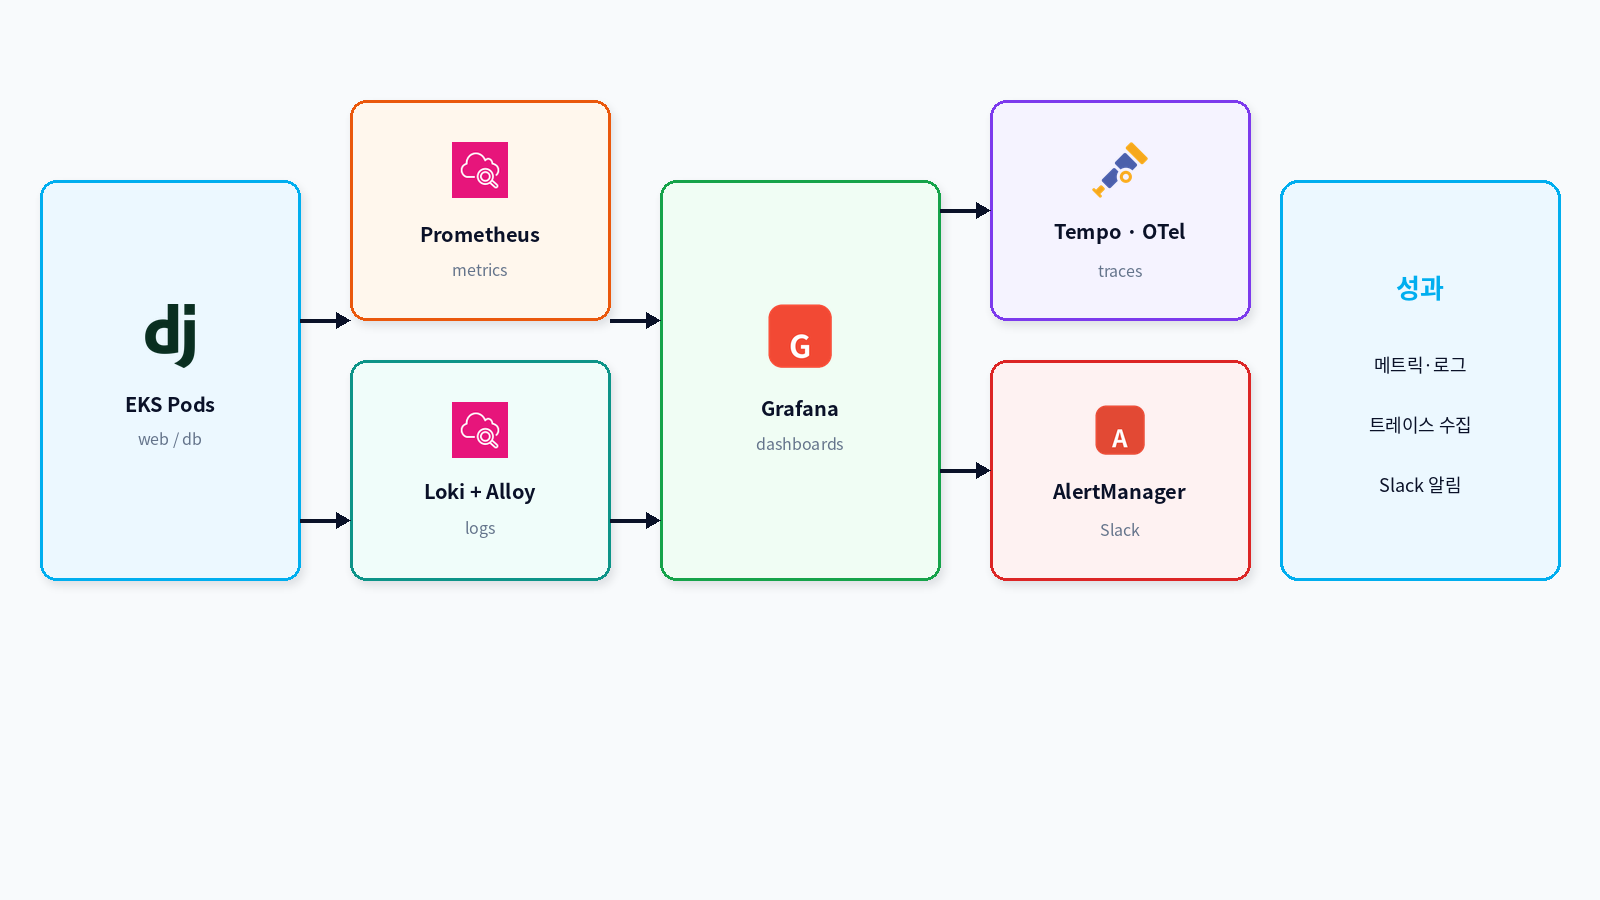
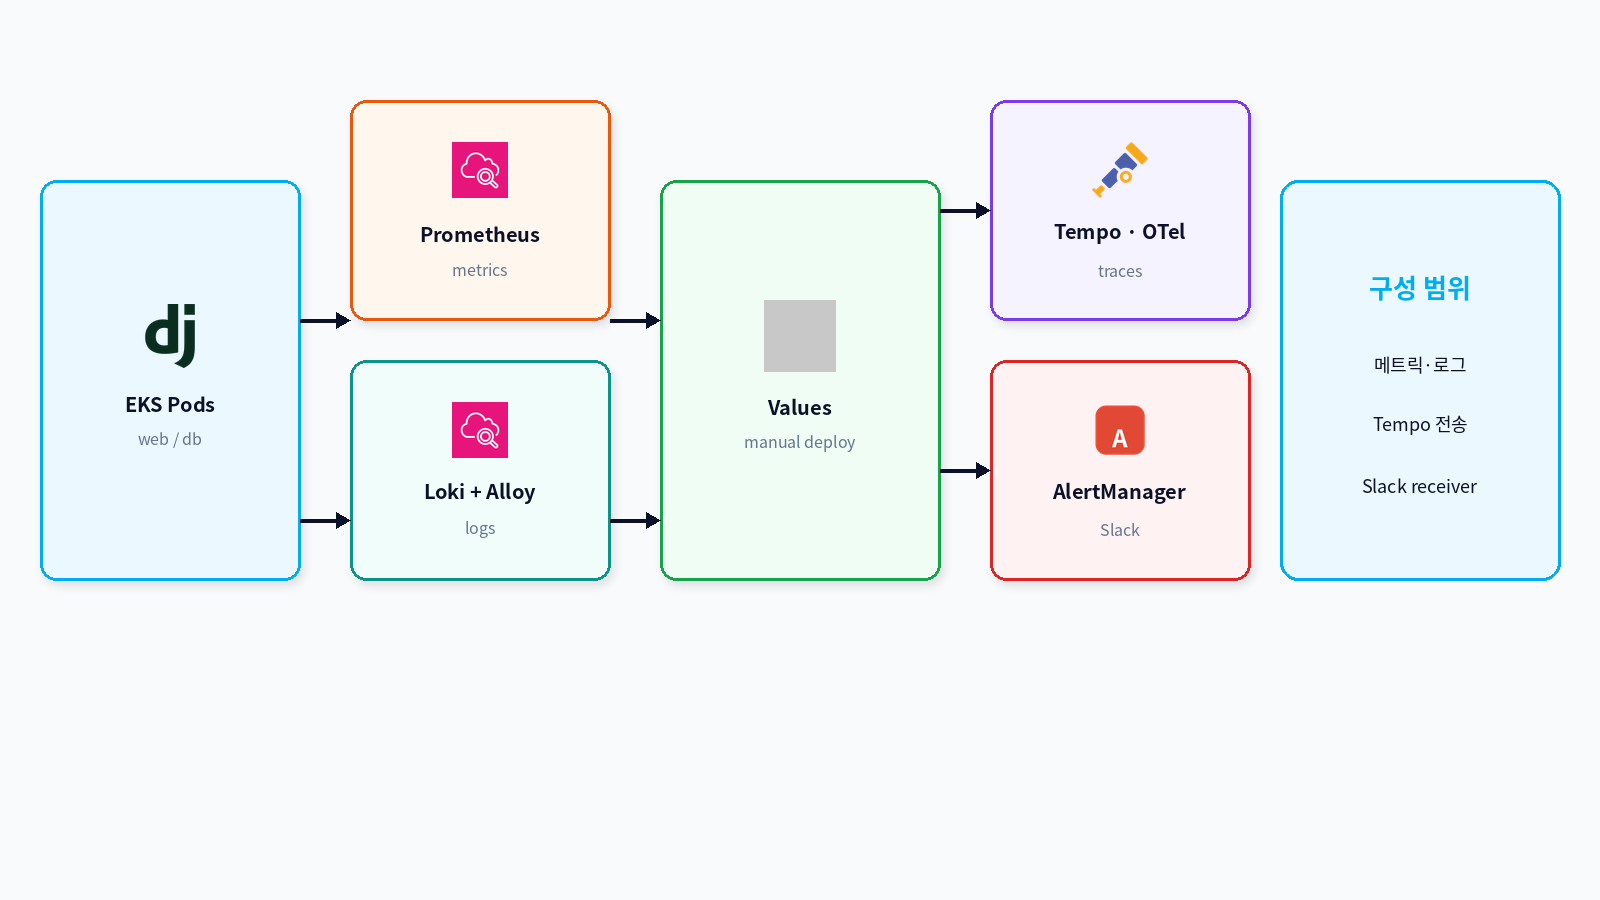
docs: qualify unverified presentation claims

diff --git a/docs/presentation/make_aniverse_v1v2_ppt.py b/docs/presentation/make_aniverse_v1v2_ppt.py
@@ -144,11 +144,14 @@ def footer(slide, n):
     font(r, 13, False, GRAY)
     # 두 자리 페이지 번호도 LibreOffice 렌더링에서 잘리지 않도록
     # 오른쪽 여백과 텍스트 상자 폭을 넉넉하게 확보한다.
-    num = slide.shapes.add_textbox(Inches(10.75), Inches(7.15), Inches(2.0), Inches(0.28))
+    num = slide.shapes.add_textbox(Inches(9.25), Inches(7.15), Inches(3.5), Inches(0.28))
+    num.text_frame.word_wrap = False
+    num.text_frame.margin_left = 0
+    num.text_frame.margin_right = 0
     p = num.text_frame.paragraphs[0]
     r = p.add_run()
     r.text = f"{n} / {TOTAL}"
-    font(r, 13, True, BLUE)
+    font(r, 12, True, BLUE)
     p.alignment = PP_ALIGN.RIGHT
 
 
@@ -296,7 +299,7 @@ def slide_v2_def(prs):
         (BLUE, "ALB · HTTPS · WAF", "ACM으로 HTTPS를 적용하고, ALB 앞 WAF에서 공격 요청과 과도한 요청을 걸러냅니다."),
         (GREEN, "EKS web / db Pod", "Django·Daphne는 Deployment로, MariaDB는 StatefulSet과 PVC로 운영합니다."),
         (ORANGE, "Actions → ECR → Argo", "OIDC로 이미지를 올리고, Git의 이미지 태그를 기준으로 Argo CD가 배포합니다."),
-        (PURPLE, "백업 · 관측", "DB는 S3에 백업하고, Prometheus·Loki·Tempo로 메트릭·로그·트레이스를 확인합니다."),
+        (PURPLE, "백업 · 관측", "DB는 S3에 백업하고, Prometheus·Loki·Tempo 설정으로 관측 경로를 구성했습니다."),
     ]
     for i, (color, title, body) in enumerate(feats):
         col, row = i % 2, i // 2
@@ -359,8 +362,8 @@ def slide_v2_detail_2(prs):
             "계정 접근이 제한되어 복구가 어려웠을 때 팀원 계정으로 이관하며 SSO·OIDC 기반으로 전환했습니다.",
         ),
         (
-            "WAF로 ALB 앞단 보호",
-            "관리형 웹 공격·악성 입력·SQLi 규칙과 IP별 5분 2,000회 요청 제한을 적용했습니다. 글쓰기 BODY 규칙은 오탐 방지를 위해 Count합니다.",
+            "WAF ACL과 ALB 연동 로직 구성",
+            "Terraform으로 관리형 웹 공격·SQLi 규칙과 IP별 5분 2,000회 제한을 구성했습니다. 글쓰기 BODY 규칙은 오탐 방지를 위해 Count하며, 실제 Web ACL 연결은 배포 후 확인 항목입니다.",
         ),
         (
             "클러스터를 지워도 도메인은 유지",
@@ -393,8 +396,8 @@ def slide_verify(prs):
         ("DB 데이터", "복구 후 목록 데이터 표시", "테이블 수 · 시드 행", "확인"),
         ("GitOps", "Git 태그와 배포 이미지 일치", "Actions · Argo CD", "확인"),
         ("미디어", "재구축 후 이미지 정상 표시", "S3 media 경로", "확인"),
-        ("관측", "메트릭·로그·트레이스 조회", "Prom · Loki · Tempo", "확인"),
-        ("알림", "AlertManager 알림 수신", "Slack 채널", "확인"),
+        ("관측", "로그·트레이스 전송 경로", "Loki · Tempo values", "구성"),
+        ("알림", "AlertManager Slack receiver", "설정 파일 · Secret", "구성"),
     ]
     for i, (t, check, method, result) in enumerate(items):
         col, row = i % 3, i // 3
@@ -448,7 +451,7 @@ def slide_next(prs):
                 "시드 검증·운영 런북 자동화",
                 "계정 이관 체크리스트 정리",
                 "부하 병목(/works 지연)·Redis Timeout 해소",
-                "Tempo로 찾은 병목을 성능 개선으로 연결",
+                "트레이스 수집 재검증 후 성능 개선으로 연결",
             ],
         ),
     ]
@@ -481,26 +484,26 @@ def slide_load_trace(prs):
             "확인한 성과",
             [
                 "HPA로 web 파드 2 → 4 확장 확인",
-                "Tempo/OTel로 요청 구간 수집·조회",
-                "AlertManager → Slack 알림 수신",
+                "Django OTLP → Tempo 전송 경로 구성",
+                "AlertManager Slack receiver 구성",
             ],
         ),
         (
             ORANGE,
             "발견한 병목",
             [
-                "/works/ 응답 최대 약 2.91초",
-                "Tempo 트레이스로 구간 병목 위치 확인",
-                "ASGI 계측 보완 후 실제 요청 트레이스 확인",
+                "/works/ 응답 최대 약 2.91초 (팀 측정)",
+                "수동 span은 Tempo 도달 · HTTP trace는 0건",
+                "ASGI extra 누락 원인 파악 후 보완",
             ],
         ),
         (
             RED,
             "남은 과제",
             [
+                "보완 후 실제 HTTP trace 재검증",
                 "Redis TimeoutError 수정 후 재검증",
                 "병목 구간 쿼리·캐시 최적화",
-                "부하 시나리오와 WAF 한도 정합",
             ],
         ),
     ]

diff --git a/docs/presentation/make_hybrid_diagrams.py b/docs/presentation/make_hybrid_diagrams.py
@@ -314,7 +314,7 @@ def make_roles():
     img = Image.new("RGBA", (W, H), BG + (255,))
     panels = [
         (50, CYAN, SOFT_BLUE, "Network / Compute", "서이 등", ["EKS · VPC", "Ingress / ALB", "노드 · NAT"], "vpc"),
-        (420, TEAL, SOFT_TEAL, "Container / DB / Observability", "윤주", ["Docker · Helm", "DB Pod · Backup", "Prom / Grafana / Loki"], "rds_maria"),
+        (420, TEAL, SOFT_TEAL, "Container / DB / Observability", "윤주", ["Docker · Helm", "DB Pod · Backup", "Loki · Tempo 설정"], "rds_maria"),
         (790, ORANGE, SOFT_ORANGE, "DevOps / GitOps", "현우", ["Actions · ECR", "Argo CD", "OIDC · 이관 복구"], "githubactions"),
         (1160, PURPLE, SOFT_PURPLE, "App / Product", "팀", ["Aniverse 서비스", "장터 · 창작", "커뮤니티"], "django"),
     ]
@@ -401,16 +401,16 @@ def make_observability():
     tile(img, 40, 180, 260, 400, "django", "EKS Pods", "web / db", CYAN, SOFT_BLUE, 64)
     tile(img, 350, 100, 260, 220, "cloudwatch", "Prometheus", "metrics", ORANGE, SOFT_ORANGE, 56)
     tile(img, 350, 360, 260, 220, "cloudwatch", "Loki + Alloy", "logs", TEAL, SOFT_TEAL, 56)
-    tile(img, 660, 180, 280, 400, "grafana", "Grafana", "dashboards", GREEN, SOFT_GREEN, 72)
+    tile(img, 660, 180, 280, 400, "server", "Values", "manual deploy", GREEN, SOFT_GREEN, 72)
     tile(img, 990, 100, 260, 220, "tempo", "Tempo · OTel", "traces", PURPLE, SOFT_PURPLE, 56)
     tile(img, 990, 360, 260, 220, "alertmanager", "AlertManager", "Slack", RED, SOFT_RED, 56)
     soft_card(img, (1280, 180, 1560, 580), r=18, fill=SOFT_BLUE, shadow=False)
     d = ImageDraw.Draw(img)
     d.rounded_rectangle((1280, 180, 1560, 580), radius=18, outline=CYAN, width=3)
-    center_text(d, "성과", 1420, 280, fnt(26, True), CYAN)
+    center_text(d, "구성 범위", 1420, 280, fnt(26, True), CYAN)
     center_text(d, "메트릭·로그", 1420, 360, fnt(18), NAVY)
-    center_text(d, "트레이스 수집", 1420, 420, fnt(18), NAVY)
-    center_text(d, "Slack 알림", 1420, 480, fnt(18), NAVY)
+    center_text(d, "Tempo 전송", 1420, 420, fnt(18), NAVY)
+    center_text(d, "Slack receiver", 1420, 480, fnt(18), NAVY)
     d = ImageDraw.Draw(img)
     arrow_h(d, 300, 320, 350, NAVY)
     arrow_h(d, 300, 520, 350, NAVY)
@@ -502,9 +502,9 @@ def make_tech_stack_v2():
             RED,
             SOFT_RED,
             [
-                ("grafana", "Prom · Grafana"),
-                ("tempo", "Tempo · OTel"),
-                ("alertmanager", "Alert · Slack"),
+                ("cloudwatch", "Prom rules"),
+                ("tempo", "Tempo · OTLP"),
+                ("alertmanager", "Alert config"),
             ],
         ),
     ]

diff --git a/docs/presentation/make_hybrid_ppt.py b/docs/presentation/make_hybrid_ppt.py
@@ -212,7 +212,7 @@ def agenda(prs):
         ("02", "아키텍처 v1 · v2 · 왜 EKS"),
         ("03", "랩 → EKS 경로 · 워크로드"),
         ("04", "GitOps · 데이터 백업/복구"),
-        ("05", "관측 (Prom / Grafana / Loki)"),
+        ("05", "관측 설정 (Prom rules / Loki / Tempo)"),
         ("06", "전환 이슈 · 계정 Block / 이관"),
         ("07", "Before / After · 다음"),
     ]
@@ -319,7 +319,7 @@ def data(prs):
 
 def observability(prs):
     s = blank(prs)
-    header(s, "5. 관측", "완료: Prom+Grafana · Loki/Alloy  —  예정: AlertManager · Tempo/OTel")
+    header(s, "5. 관측", "values·규칙 구성: Prometheus · Loki/Alloy · Tempo · AlertManager")
     put_img(s, "hybrid_07_observability.png")
     footer(s, 12)
 
@@ -392,7 +392,7 @@ def before_after(prs):
         "EKS + Argo CD",
         "DB Pod + PVC · SQL/CronJob 백업",
         "Actions → ECR → GitOps",
-        "Prom/Grafana · Loki 관측",
+        "Prom rules · Loki · Tempo 설정",
     ]:
         add_para(right.text_frame, "·  " + line, 18, False, BODY, 18)
     footer(s, 16)

diff --git a/docs/presentation/SPEAKER_NOTES_V1V2.md b/docs/presentation/SPEAKER_NOTES_V1V2.md
@@ -17,7 +17,7 @@ PPT: `ppt/Aniverse_V1V2_발표_working.pptx`
 | 7 | V2 상세 ① | DB Pod, 배포 이미지 태그, 재구축 후 데이터 복구 |
 | 8 | V2 상세 ② | Zero-Key(OIDC·SSO) · WAF · DNS 유지 · 이관 한 줄 |
 | 9 | 검증 기준 | 확인/구성 기준 설명 · Tempo 포함 |
-| 10 | 기술 스택 | Argo 아이콘 · Tempo/Grafana/Alert · TF·IRSA·ESO |
+| 10 | 기술 스택 | Argo 아이콘 · Prom rules/Tempo OTLP/Alert 설정 · TF·IRSA·ESO |
 | 11 | 데이터 흐름 | PVC vs S3 · 시드(Git SQL) / 주기 백업(S3) 경로 |
 | 12 | 앞으로 보완할 점 | 트레이싱은 성과로 이동 · 발표·시연 칸 삭제 |
 | 13 | 부하 · 트레이싱 | HPA 2→4 · /works 병목 · Redis Timeout 재검증 |
@@ -37,7 +37,7 @@ PPT: `ppt/Aniverse_V1V2_발표_working.pptx`
 
 ## 13–16장 발표 멘트
 
-**13장 · 부하테스트·트레이싱** — 부하테스트에서 web 파드가 2개에서 4개로 늘어나는 것을 확인했습니다. `/works/` 응답은 최대 약 2.91초로 가장 느렸고, ASGI 계측 패키지를 보완한 뒤 Tempo에서 실제 요청 트레이스를 확인했습니다. Redis TimeoutError는 의존성 버전을 조정했으며 같은 부하 조건에서 재검증이 남아 있습니다.
+**13장 · 부하테스트·트레이싱** — 부하테스트에서 web 파드가 2개에서 4개로 늘어나는 것을 확인했습니다. 팀 측정에서 `/works/` 응답은 최대 약 2.91초였습니다. 수동 span은 Tempo에 도달했지만 실제 HTTP trace는 0건이어서 ASGI extra 누락을 보완했습니다. 실제 요청 trace와 Redis TimeoutError 재발 여부는 같은 부하 조건에서 다시 확인해야 합니다.
 **14장 · 현우** — 중지 검증, Argo Missing(SSA), 시드 행 검증  
 **15장 · 서이** — HPA replicas 충돌, Terraform 생성 순서, DB 비밀번호 로테이션  
 **16장 · 윤주** — 백업 0바이트, Alloy max-pods, Slack 웹훅

diff --git a/docs/presentation/CONTENT_V1V2_working.md b/docs/presentation/CONTENT_V1V2_working.md
@@ -20,7 +20,7 @@
 | 7 | Architecture V2 · 배포와 데이터 | 3행 | DB Pod · sha 태그 · 시드 |
 | 8 | Architecture V2 · 보안과 DNS | 3행 | Zero-Key(OIDC·SSO) · WAF · DNS · 이관 한 줄 |
 | 9 | 기능 · 운영 검증 기준 | 6카드 | 확인/구성 기준 설명 |
-| 10 | 기술 스택 · V2 | **이미지** | Tempo/Grafana/Alert/ESO |
+| 10 | 기술 스택 · V2 | **이미지** | Prom rules/Tempo OTLP/Alert 설정/ESO |
 | 11 | 데이터 흐름 · V2 | **이미지** | `hybrid_10_data_flow.png` |
 | 12 | 앞으로 보완할 점 | 2열 | 트레이싱은 성과로 이동 · 발표·시연 칸 제거 |
 | 13 | 부하테스트 · 트레이싱 | 3열 | HPA 2→4 · /works 병목 · Redis Timeout |
@@ -45,9 +45,9 @@
 - 완성도: 런북 · 이관 체크리스트 · /works 병목·Redis Timeout 해소
 
 ### 13. 부하 · 트레이싱
-- 성과: HPA 2→4, Tempo/OTel 수집, Slack 알림
-- 병목: /works 최대 ~2.91초, ASGI 계측 보완 후 실제 요청 트레이스 확인
-- 과제: Redis TimeoutError 수정 후 재검증
+- 확인: HPA 2→4, Django OTLP→Tempo 경로, AlertManager Slack receiver 구성
+- 발견: /works 최대 ~2.91초(팀 측정), 수동 span 도달·HTTP trace 0건, ASGI extra 누락 보완
+- 과제: 실제 HTTP trace·Redis TimeoutError 재검증
 
 ### 15. 트러블슈팅 · EKS (서이)
 - HPA replicas 충돌 (9/15)
